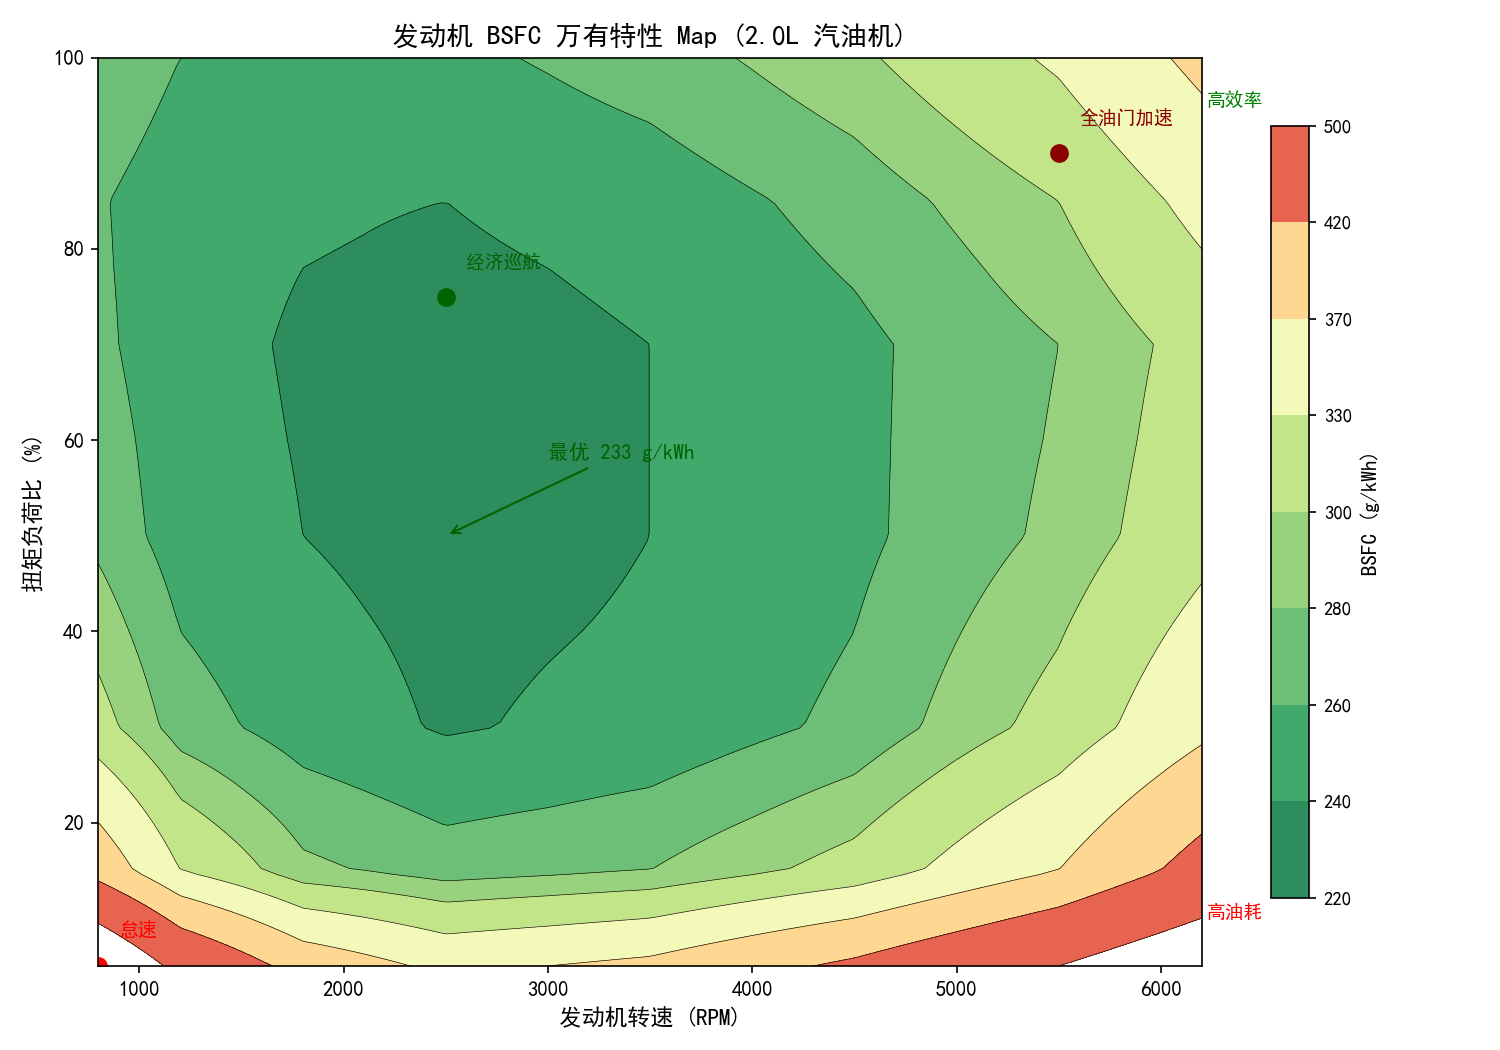
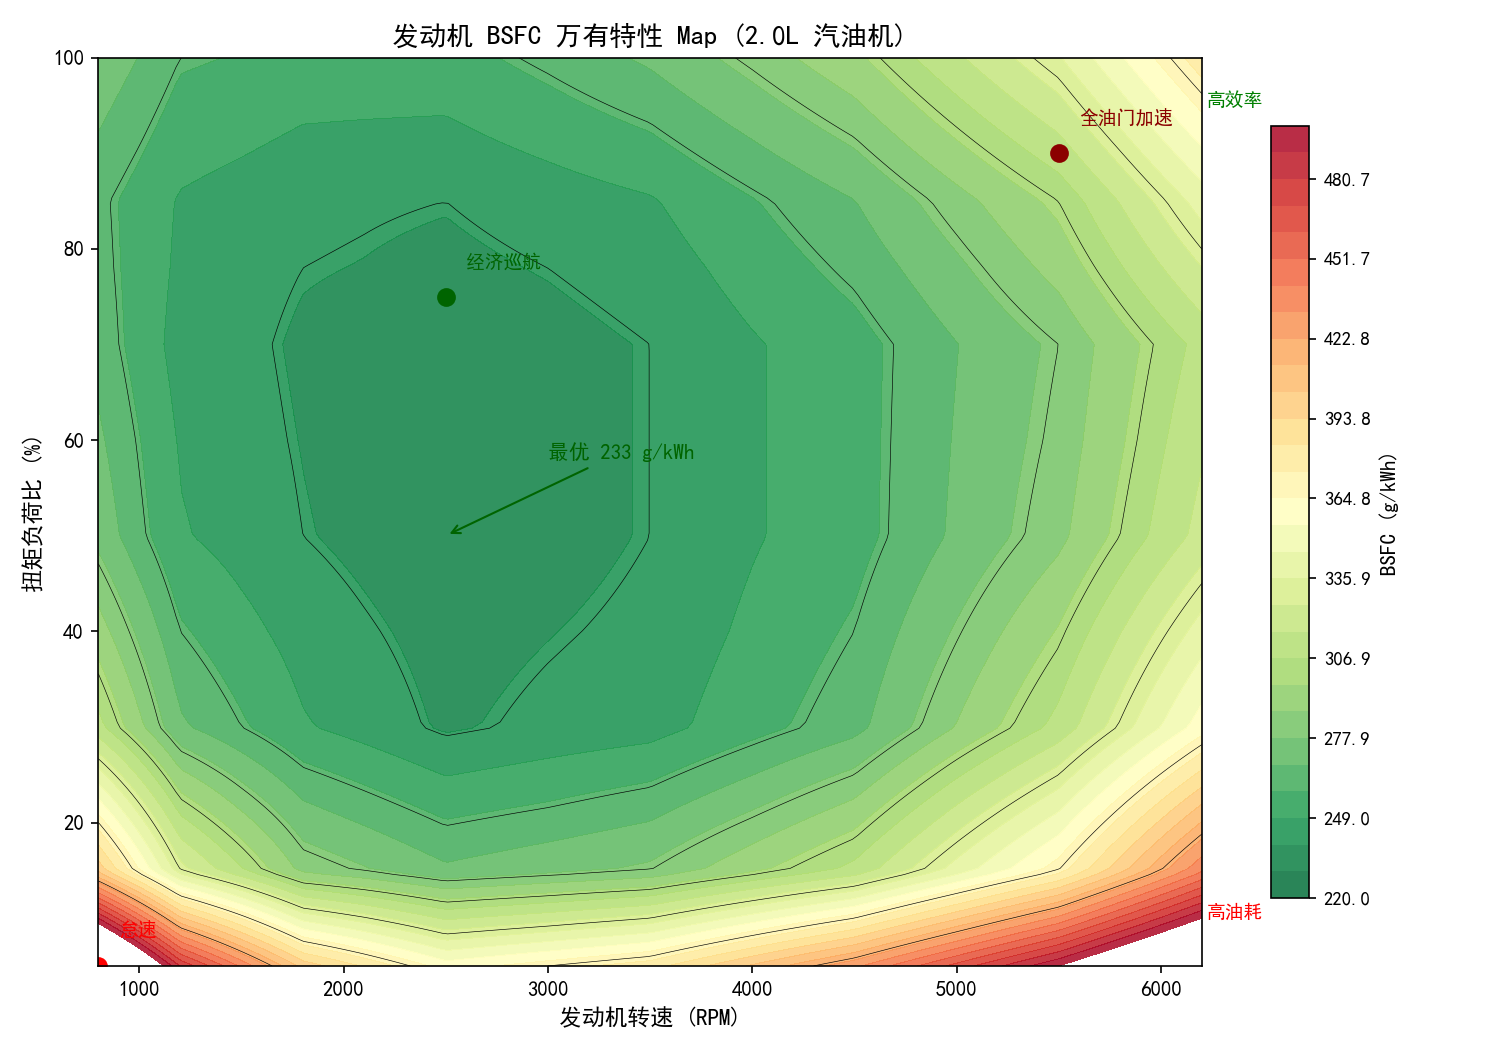
fix: increase contour levels from 9 to 30 for smoother gradient

diff --git a/vehicle_dynamics.py b/vehicle_dynamics.py
@@ -377,14 +377,15 @@ def plot_bsfc_map(save_path=None):
 
     fig, ax = plt.subplots(figsize=(10, 7))
 
-    # 填充等高线
-    levels = [220, 240, 260, 280, 300, 330, 370, 420, 500]
+    # 填充等高线（30 层细密渐变）
+    levels = np.linspace(220, 500, 30)
     cs = ax.contourf(R_fine, L_fine, bsfc_fine, levels=levels, cmap="RdYlGn_r", alpha=0.85)
     cbar = fig.colorbar(cs, ax=ax, label="BSFC (g/kWh)", shrink=0.85)
     cbar.ax.tick_params(labelsize=9)
 
-    # 标注线
-    ax.contour(R_fine, L_fine, bsfc_fine, levels=levels, colors="black", linewidths=0.3)
+    # 稀疏标注线（只在关键层级画）
+    label_levels = [240, 260, 280, 300, 330, 370, 420]
+    ax.contour(R_fine, L_fine, bsfc_fine, levels=label_levels, colors="black", linewidths=0.3)
 
     # 标注最优区（找数组中最小值位置）
     min_flat = np.argmin(bsfc_data)
